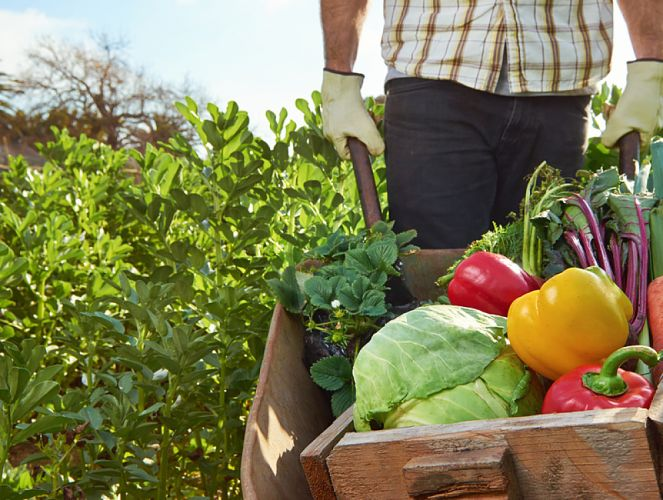
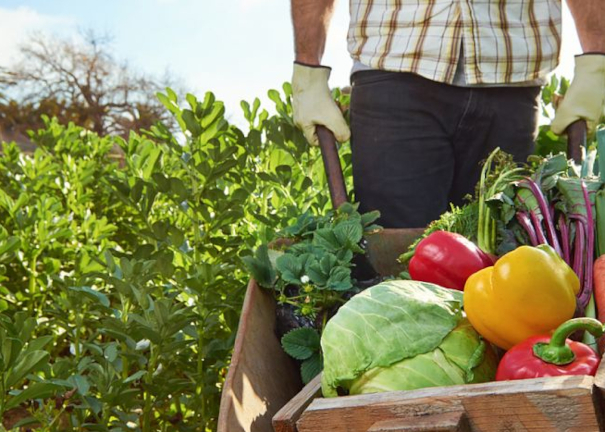
footer avec boutons actifs

diff --git a/valeurs.html b/valeurs.html
@@ -8,6 +8,7 @@
     <link rel="stylesheet" href="mainStyles.css">
     <link rel="stylesheet" href="valeursStyles.css">
     <link rel="stylesheet" href="smallFooter.css">
+    <link href="https://fonts.googleapis.com/css2?family=Kaisei+Decol&display=swap" rel="stylesheet">
     <title>Document</title>
 </head>
 
@@ -45,9 +46,13 @@
         <p>Nos valeurs sont simples : vous donner le meilleur de la terre en lien avec les producteurs locaux, dans le
             respect du vivant.
             Et à pas trop cher parce qu'on n'est pas non plus des oufs, c'est la crise.</p>
+
+
+
+
         <div class="boiteImageMain">
             <div class="boiteImageTop">
-                <div class="valeurs-img"><img src="assets/valeur01.jpg"></div>
+                <div class="valeurs-img"><img src="assets/legumes.png"></div>
                 <div class="valeurs-img"><img src="assets/valeur02.jpg"></div>
             </div>
             <div class="valeurs-img"><img src="assets/valeur03.jpg"></div>
@@ -65,15 +70,15 @@
 
             <div class="footer-content">
                 <div class="functions-icon">
-                    <img id="mail" src="assets/mail.png">
-                    <img id="phone" src="assets/phone2.png">
-                    <img id="map" src="assets/map.png">
+                    <a href="mailto: abc@example.com" target="_blank"> <img id="mail" src="assets/mail.png"></a>
+                    <a href=" +330606060606" target="_blank"> <img id="phone" src="assets/phone2.png"> </a>
+                    <a href="https://goo.gl/maps/PzpQMd1XEAXccWzd6" target="_blank"> <img id="map" src="assets/map.png"></a>
                 </div>
 
                 <div class="social-icon">
-                    <img id= "insta" src="assets/insta.png">
-                    <img id="facebook" src="assets/facebook.png">
-                    <img id="twitter" src="assets/twitter.png">
+                    <a href="https://www.instagram.com" target="_blank"><img id="insta" src="assets/insta.png"></a>
+                    <a href="https://www.facebook.com" target="_blank"><img id="facebook" src="assets/facebook.png"></a>
+                    <a href="https://www.twitter.com" target="_blank"><img id="twitter" src="assets/twitter.png"></a>
                 </div>
             </div>
 

diff --git a/valeursStyles.css b/valeursStyles.css
@@ -11,14 +11,14 @@
 }
 
 .boiteImageMain img {
-    display: flex;
-    align-items: center;
+    /* display: flex;
+    */
 
 }
 
 .boiteImageTop {
     display: flex;
-    justify-content: center;
+    justify-content: space-around;
     align-items: center;
 
 }
@@ -26,7 +26,7 @@
 .boiteImageTop img {
     display: flex;
     align-items: center;
-    max-width: 120px;
+    max-width: 90%;
 }
 
 

diff --git a/script.js b/script.js
@@ -7,7 +7,7 @@ menuButton.addEventListener('click', function () {
     menuButton.classList.toggle('close');
 });
 
-//boutons du footer
+//boutons du footer (juste pour vérifier qu'ils marchent, pas d'utilité directe)
 var mailButton = document.querySelector('#mail');
 mailButton.addEventListener('click', function(event){
     event.target.style.visibility = 'hidden';
